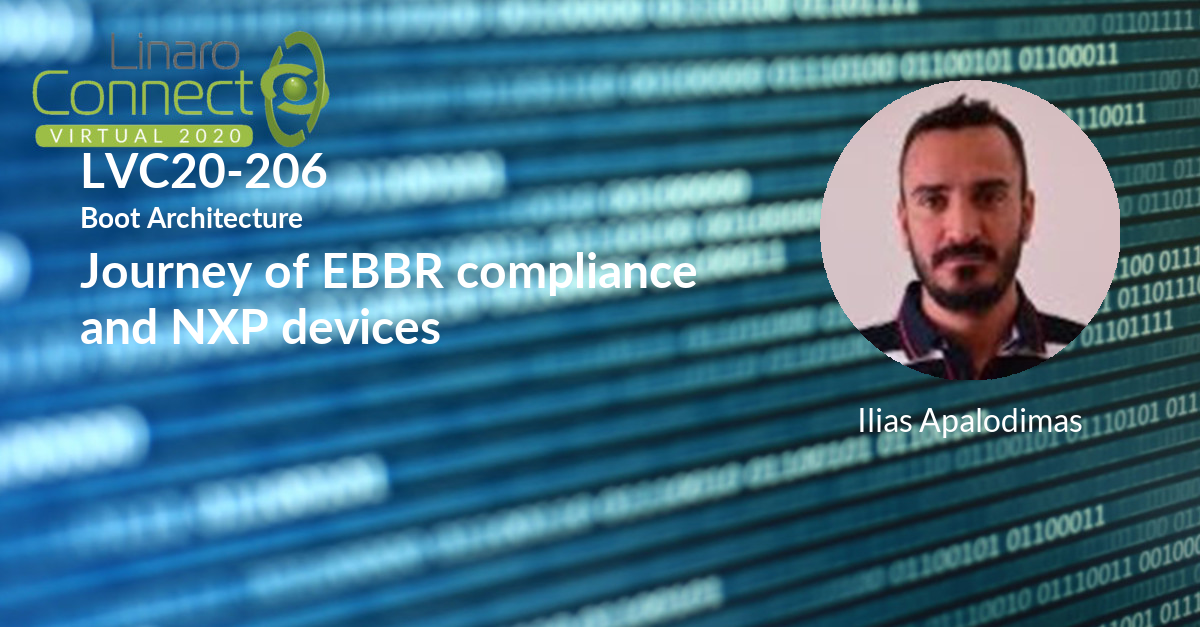
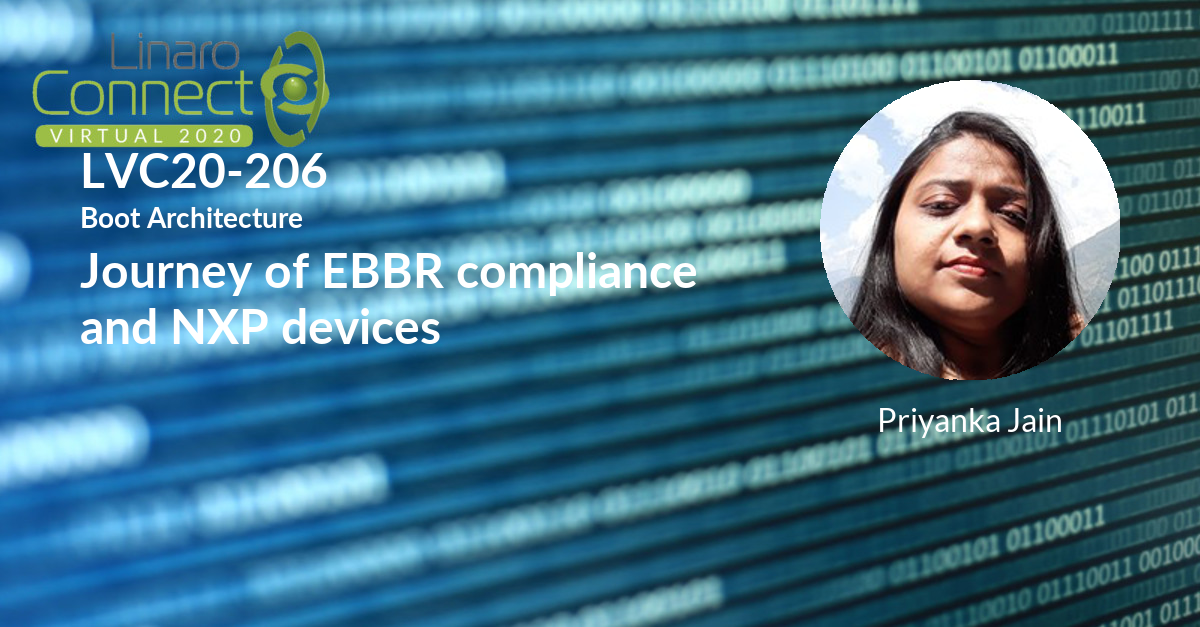
Session update for session-update-200904-1627

Changed region(s): [[0.6783, 0.1212, 0.9558, 0.6061], [0.7092, 0.6364, 0.8942, 0.697]]

diff --git a/_posts/lvc20/sessions/2020-09-04-lvc20-113.md b/_posts/lvc20/sessions/2020-09-04-lvc20-113.md
@@ -1,0 +1,46 @@
+---
+categories:
+- lvc20
+description: Trusted Firmware is growing fast!<br /> New external maintainers, new
+  projects recently joined, new Security vulnerability process, new Open CI on Arm
+  & partners boards!<br /> Come and listen to all the latest exciting developments
+  for all the projects part of the Trusted Firmware family (TF-A, TF-M, Hafnium, mbedTLS,
+  OP-TEE)!!!"
+image: /assets/images/featured-images/lvc20/LVC20-113.png
+session_id: LVC20-113
+session_room: Track 1 - IoT/Edge/Embedded
+session_slot:
+  end_time: 2020-09-22 14:25
+  start_time: 2020-09-22 14:00
+session_speakers:
+- speaker_bio: Director of Software Technology Management at Arm Matteo is Director
+    of Software Technology Management at Arm and serves as Chairman of the Board for
+    Trusted Firmware . He drives Arm&#39;s community effort into various open source
+    projects, focusing on security architectures, firmware &amp; kernel interfaces,
+    platform security requirements and ecosystem enablement. In a previous life, he
+    spent many years managing and working on embedded software developments for networking
+    and automotive devices across various companies, where firmware meant BSPs and
+    lot of proprietary headache.
+  speaker_company: Arm
+  speaker_image: http://avatars.sched.co/7/02/7234934/avatar.jpg.320x320px.jpg?7c9
+  speaker_name: Matteo Carlini
+  speaker_position: Co-Chair, Trustedfirmware.org &amp; Director, Software Technology
+    Management, Arm
+  speaker_role: attendee, speaker
+- speaker_bio: Shebu is the Technology Manager of Trusted Firmware-M (Open Source
+    Reference Implementation of Platform Security Architecture). Mbed TLS (Open SOurce
+    TLS Library) and the co-chair of the Open Governance community project Trustedfirmware.org.
+    Shebu represents Arm in the Linaro IoT and Embedded (LITE) Group. As part of Arm’s
+    Open Source Software group, Shebu has been involved in various Open Source projects
+    that Arm is part of.
+  speaker_company: Arm
+  speaker_image: http://avatars.sched.co/b/b1/7249965/avatar.jpg.320x320px.jpg?bd3
+  speaker_name: Shebu Varghese Kuriakose
+  speaker_position: Co-Chair, Trustedfirmware.org &amp; Director, Software Technology
+    Management, Arm
+  speaker_role: speaker
+session_track: Open Source Development
+tag: session
+tags: Open Source Development
+title: LVC20-113 Trusted Firmware Project update
+---

diff --git a/_posts/lvc20/sessions/2020-09-04-lvc20-206.md b/_posts/lvc20/sessions/2020-09-04-lvc20-206.md
@@ -1,0 +1,44 @@
+---
+categories:
+- lvc20
+description: The Embedded Base Boot Requirements(EBBR) specification defines requirements
+  for embedded systems to enable inter-operability between SoCs, hardware platforms,
+  firmware implementations, and operating system distributions. EBBR is targeted at
+  making operating system/distros agnostic to platform. Same operating system image
+  should run on any hardware with a well-defined firmware interface which is EBBR
+  compliant.<br><br>There has been a significant work going on in U-boot with regards
+  to EBBR in the open-source community. Various features like bootefi are already
+  available with many other features in queue.<br><br>This presentation aims at explaining
+  how EBBR specifications gets mapped to NXP platforms and demonstrating EBBR compliance
+  for NXP platform. The reference boot-architecture will be based on TFA, u-boot,
+  device-trees, Linux and OPTEE (for secure uefi flow). This will demonstrate distros
+  like SUSE running on NXP SoCs using bootefi command, secure uefi flow, etc<br><br>Also
+  efforts are going to ensure that the U-boot is EBBR compliant by running FWTS, SCT
+  for EBBR. The idea is to make the u-boot feature complete and can be demonstrated
+  as EBBR compliance on NXP devices.
+image: /assets/images/featured-images/lvc20/LVC20-206.png
+session_id: LVC20-206
+session_room: Linux/Android
+session_slot:
+  end_time: 2020-09-23 09:40
+  start_time: 2020-09-23 09:15
+session_speakers:
+- speaker_bio: 'Around 15 years of experience of working on embedded software : C-programming,
+    BSP, u-boot, Linux, Enablement of Real-time solutions, various device drivers,
+    u-boot custodian fsl-qoriq, mpc85xx maintainer&lt;br&gt;&lt;br&gt;'
+  speaker_company: NXP
+  speaker_image: http://avatars.sched.co/a/84/10893750/avatar.jpg.320x320px.jpg?a03
+  speaker_name: Priyanka Jain
+  speaker_position: Embedded Software Engineer
+  speaker_role: attendee, speaker
+- speaker_bio: Linux kernel developer with a taste for networking and performance
+  speaker_company: Linaro
+  speaker_image: http://avatars.sched.co/e/a0/7234895/avatar.jpg.320x320px.jpg?dcc
+  speaker_name: Ilias Apalodimas
+  speaker_position: Tech Lead
+  speaker_role: speaker
+session_track: Boot Architecture
+tag: session
+tags: Boot Architecture
+title: LVC20-206 Journey of EBBR compliance and NXP devices
+---

diff --git a/_posts/lvc20/sessions/2020-09-04-lvc20-218.md b/_posts/lvc20/sessions/2020-09-04-lvc20-218.md
@@ -1,0 +1,36 @@
+---
+categories:
+- lvc20
+description: BoF session to discuss recent changes and current issues in gpio and
+  pinctrl. For GPIO, we have new uAPI in the works and also the recent GPIO aggregator.
+  For pinctrl, gpiod is starting to incorporate certain pinctrl aspects like bias.
+  Linus Walleij, who is the maintainer, told me he thought is would be a good idea
+  and agreed to attend if I organize it.
+image: /assets/images/featured-images/lvc20/LVC20-218.png
+session_id: LVC20-218
+session_room: Linux/Android
+session_slot:
+  end_time: 2020-09-23 12:40
+  start_time: 2020-09-23 12:15
+session_speakers:
+- speaker_bio: '&lt;span data-sheets-userformat=&#39;{&#34;2&#34;:769,&#34;3&#34;:{&#34;1&#34;:0},&#34;11&#34;:4,&#34;12&#34;:0}&#39;
+    data-sheets-value=&#39;{&#34;1&#34;:2,&#34;2&#34;:&#34;Drew Fustini is an open
+    hardware designer and embedded Linux developer. He serves on the board of directors
+    for the Open Source Hardware Association and the BeagleBoard.org Foundation, and
+    is an ambassador for the RISC-V Foundation. Drew designs circuit boards for OSH
+    Park, a PCB manufacturing service, and maintains the Adafruit BeagleBone Python
+    library.&#34;}&#39;&gt;Drew Fustini is an open hardware designer and embedded
+    Linux developer. He serves on the board of directors for the Open Source Hardware
+    Association and the BeagleBoard.org Foundation, and is an ambassador for the RISC-V
+    Foundation. Drew designs circuit boards for OSH Park, a PCB manufacturing service,
+    and maintains the Adafruit BeagleBone Python library.&lt;/span&gt;'
+  speaker_company: BeagleBoard.org Foundation
+  speaker_image: http://avatars.sched.co/c/59/1339430/avatar.jpg.320x320px.jpg?9fc
+  speaker_name: Drew Fusitni
+  speaker_position: Linux developer and hardware designer
+  speaker_role: speaker
+session_track: Linux Kernel
+tag: session
+tags: Linux Kernel
+title: LVC20-218 GPIO and pinctrl
+---

diff --git a/_posts/lvc20/sessions/2020-09-04-lvc20-213.md b/_posts/lvc20/sessions/2020-09-04-lvc20-213.md
@@ -32,17 +32,17 @@ session_slot:
   end_time: 2020-09-23 12:10
   start_time: 2020-09-23 11:45
 session_speakers:
-- speaker_bio: Shebu is the Product Manager of Trusted Firmware-M (Open Source Reference
-    Implementation of Platform Security Architecture) and the co-chair of the Open
-    Governance community project Trustedfirmware.org. &lt;br /&gt; &lt;br /&gt; Shebu
-    represents Arm in the Linaro IoT and Embedded (LITE) Group. As part of Arm’s Open
-    Source Software group, Shebu has been involved in various Open Source projects
-    that Arm is part of. Prior to joining Arm, Shebu worked in Samsung and Cambridge
-    Silicon Radio &lt;br /&gt; (now Qualcomm).&lt;br /&gt; &lt;br /&gt;
-  speaker_company: Arm Ltd.
-  speaker_image: http://avatars.sched.co/b/b1/7249965/avatar.jpg.320x320px.jpg?cc6
+- speaker_bio: Shebu is the Technology Manager of Trusted Firmware-M (Open Source
+    Reference Implementation of Platform Security Architecture). Mbed TLS (Open SOurce
+    TLS Library) and the co-chair of the Open Governance community project Trustedfirmware.org.
+    Shebu represents Arm in the Linaro IoT and Embedded (LITE) Group. As part of Arm’s
+    Open Source Software group, Shebu has been involved in various Open Source projects
+    that Arm is part of.
+  speaker_company: Arm
+  speaker_image: http://avatars.sched.co/b/b1/7249965/avatar.jpg.320x320px.jpg?bd3
   speaker_name: Shebu Varghese Kuriakose
-  speaker_position: Senior Software Technology Manager
+  speaker_position: Co-Chair, Trustedfirmware.org &amp; Director, Software Technology
+    Management, Arm
   speaker_role: speaker
 session_track: IoT and Embedded
 tag: session

diff --git a/_posts/lvc20/sessions/2020-09-04-lvc20-108.md b/_posts/lvc20/sessions/2020-09-04-lvc20-108.md
@@ -1,0 +1,32 @@
+---
+categories:
+- lvc20
+description: An overview of the latest status of Armv8-A architecture enablement for
+  the arm64 Linux Kernel, including security features (Pointer Authentication, BTI,
+  Memory Tagging), system features (MPAM) and new areas of investigation.
+image: /assets/images/featured-images/lvc20/LVC20-108.png
+session_id: LVC20-108
+session_room: Linux/Android
+session_slot:
+  end_time: 2020-09-22 13:20
+  start_time: 2020-09-22 12:55
+session_speakers:
+- speaker_bio: Director of Software Technology Management at Arm Matteo is Director
+    of Software Technology Management at Arm and serves as Chairman of the Board for
+    Trusted Firmware . He drives Arm&#39;s community effort into various open source
+    projects, focusing on security architectures, firmware &amp; kernel interfaces,
+    platform security requirements and ecosystem enablement. In a previous life, he
+    spent many years managing and working on embedded software developments for networking
+    and automotive devices across various companies, where firmware meant BSPs and
+    lot of proprietary headache.
+  speaker_company: Arm
+  speaker_image: http://avatars.sched.co/7/02/7234934/avatar.jpg.320x320px.jpg?7c9
+  speaker_name: Matteo Carlini
+  speaker_position: Co-Chair, Trustedfirmware.org &amp; Director, Software Technology
+    Management, Arm
+  speaker_role: attendee, speaker
+session_track: Linux Kernel
+tag: session
+tags: Linux Kernel
+title: LVC20-108 Arm64 Linux Kernel Architecture update
+---

diff --git a/_posts/lvc20/sessions/2020-09-04-lvc20-314.md b/_posts/lvc20/sessions/2020-09-04-lvc20-314.md
@@ -45,13 +45,18 @@ session_speakers:
   speaker_name: Stefano Stabellini
   speaker_position: Principal Engineer
   speaker_role: attendee, speaker
-- speaker_bio: Bruce has worked in embedded software and linux for 20 years and has
-    a variety of technical areas of interest. Ranging from kernel to virtualization/containers
-    and edge system design.
+- speaker_bio: Bruce Ashfield is currently a system software architect and Yocto technical
+    lead at Xilinx, the worlds largest supplier of FPGA solutions. Previously, at
+    Wind River, he created a embedded products based on the Yocto project. Bruce had
+    a particular focus in virtualization and cloud native solutions, creating both
+    a real time virtualization profile (Open Virtualization Profile) and a container
+    based edge OS (OverC). Bruce continues as the kernel, meta-virtualization, meta-realtime
+    and container maintainer for the Yocto project as well as working on System Device
+    tree (among other things) at Xilinx.
   speaker_company: Xilinx
-  speaker_image: http://avatars.sched.co/4/7c/7525594/avatar.jpg.320x320px.jpg?c85
+  speaker_image: http://avatars.sched.co/4/7c/7525594/avatar.jpg.320x320px.jpg?84e
   speaker_name: Bruce Ashfield
-  speaker_position: Principal System Software Engineer
+  speaker_position: Principal Engineer
   speaker_role: speaker
 session_track: IoT and Embedded
 tag: session

diff --git a/_posts/lvc20/sessions/2020-09-04-lvc20-316.md b/_posts/lvc20/sessions/2020-09-04-lvc20-316.md
@@ -38,13 +38,18 @@ session_speakers:
   speaker_name: Stefano Stabellini
   speaker_position: Principal Engineer
   speaker_role: attendee, speaker
-- speaker_bio: Bruce has worked in embedded software and linux for 20 years and has
-    a variety of technical areas of interest. Ranging from kernel to virtualization/containers
-    and edge system design.
+- speaker_bio: Bruce Ashfield is currently a system software architect and Yocto technical
+    lead at Xilinx, the worlds largest supplier of FPGA solutions. Previously, at
+    Wind River, he created a embedded products based on the Yocto project. Bruce had
+    a particular focus in virtualization and cloud native solutions, creating both
+    a real time virtualization profile (Open Virtualization Profile) and a container
+    based edge OS (OverC). Bruce continues as the kernel, meta-virtualization, meta-realtime
+    and container maintainer for the Yocto project as well as working on System Device
+    tree (among other things) at Xilinx.
   speaker_company: Xilinx
-  speaker_image: http://avatars.sched.co/4/7c/7525594/avatar.jpg.320x320px.jpg?c85
+  speaker_image: http://avatars.sched.co/4/7c/7525594/avatar.jpg.320x320px.jpg?84e
   speaker_name: Bruce Ashfield
-  speaker_position: Principal System Software Engineer
+  speaker_position: Principal Engineer
   speaker_role: speaker
 session_track: IoT and Embedded
 tag: session

diff --git a/_posts/lvc20/sessions/2020-09-04-lvc20-120.md b/_posts/lvc20/sessions/2020-09-04-lvc20-120.md
@@ -19,11 +19,11 @@ session_speakers:
     for i.MX boards. He is a teaching assistant for Operating System Internals class
     at University POLITEHNICA in Bucharest and very passionate about helping newcomers
     to the Linux kernel world while being a mentor for the Google Summer of Code.
-  speaker_company: NXP
+  speaker_company: nxp
   speaker_image: http://avatars.sched.co/a/da/9414036/avatar.jpg.320x320px.jpg?cee
   speaker_name: Daniel BALUTA
-  speaker_position: Software Engineer at NXP
-  speaker_role: speaker
+  speaker_position: sweng
+  speaker_role: attendee, speaker
 session_track: Linux Kernel
 tag: session
 tags: Linux Kernel

diff --git a/_posts/lvc20/sessions/2020-09-04-lvc20-301.md b/_posts/lvc20/sessions/2020-09-04-lvc20-301.md
@@ -21,7 +21,7 @@ session_speakers:
   speaker_company: Linaro
   speaker_image: http://avatars.sched.co/3/30/517344/avatar.jpg.320x320px.jpg?0f6
   speaker_name: John Stultz
-  speaker_position: Linaro Consumer Group - AOSP devboards and Kernel developer
+  speaker_position: AOSP Devboard/Kernel Developer
   speaker_role: attendee, speaker
 - speaker_bio: Lead for GKI 2.0 work in the Android Kernel Team at Google.
   speaker_company: Google

diff --git a/_posts/lvc20/sessions/2020-09-04-lvc20-207.md b/_posts/lvc20/sessions/2020-09-04-lvc20-207.md
@@ -28,9 +28,8 @@ session_speakers:
   speaker_company: Huawei
   speaker_image: http://avatars.sched.co/4/51/3735276/avatar.jpg.320x320px.jpg?953
   speaker_name: Dr Wei Xiong
-  speaker_position: openEuler technical committee member, Chief Architect of Server
-    Operating System
-  speaker_role: speaker
+  speaker_position: OS architect
+  speaker_role: attendee, speaker
 session_track: Data Center
 tag: session
 tags: Data Center

diff --git a/_posts/lvc20/sessions/2020-09-04-lvc20-112.md b/_posts/lvc20/sessions/2020-09-04-lvc20-112.md
@@ -29,8 +29,8 @@ session_speakers:
   speaker_company: Arm
   speaker_image: http://avatars.sched.co/4/d5/6323146/avatar.jpg.320x320px.jpg?274
   speaker_name: Miklos Balint
-  speaker_position: Principal Software Engineer at Arm
-  speaker_role: speaker
+  speaker_position: Principal Software Engineer
+  speaker_role: attendee, speaker
 session_track: Security
 tag: session
 tags: Security

diff --git a/_posts/lvc20/sessions/2020-09-04-lvc20-116.md b/_posts/lvc20/sessions/2020-09-04-lvc20-116.md
@@ -37,8 +37,8 @@ session_speakers:
   speaker_company: Arm
   speaker_image: http://avatars.sched.co/c/e4/10677980/avatar.jpg.320x320px.jpg?bfe
   speaker_name: Hugues de Valon
-  speaker_position: Senior Software Engineer at Arm
-  speaker_role: speaker
+  speaker_position: Senior Software Engineer
+  speaker_role: attendee, speaker
 session_track: Security
 tag: session
 tags: Security
